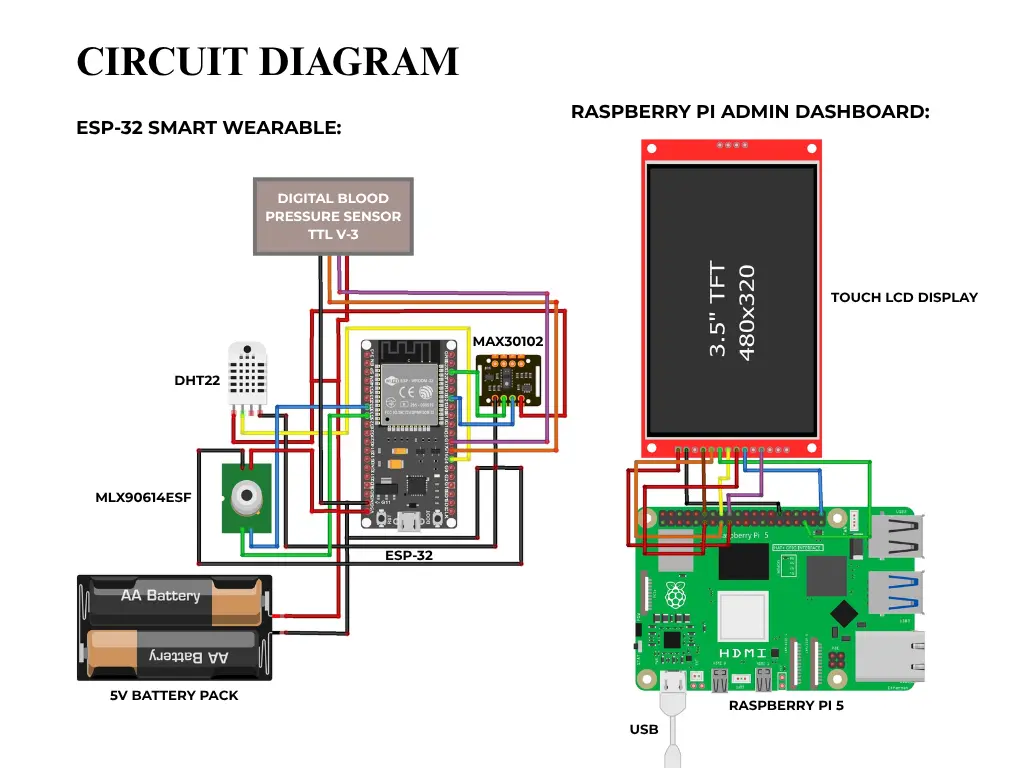
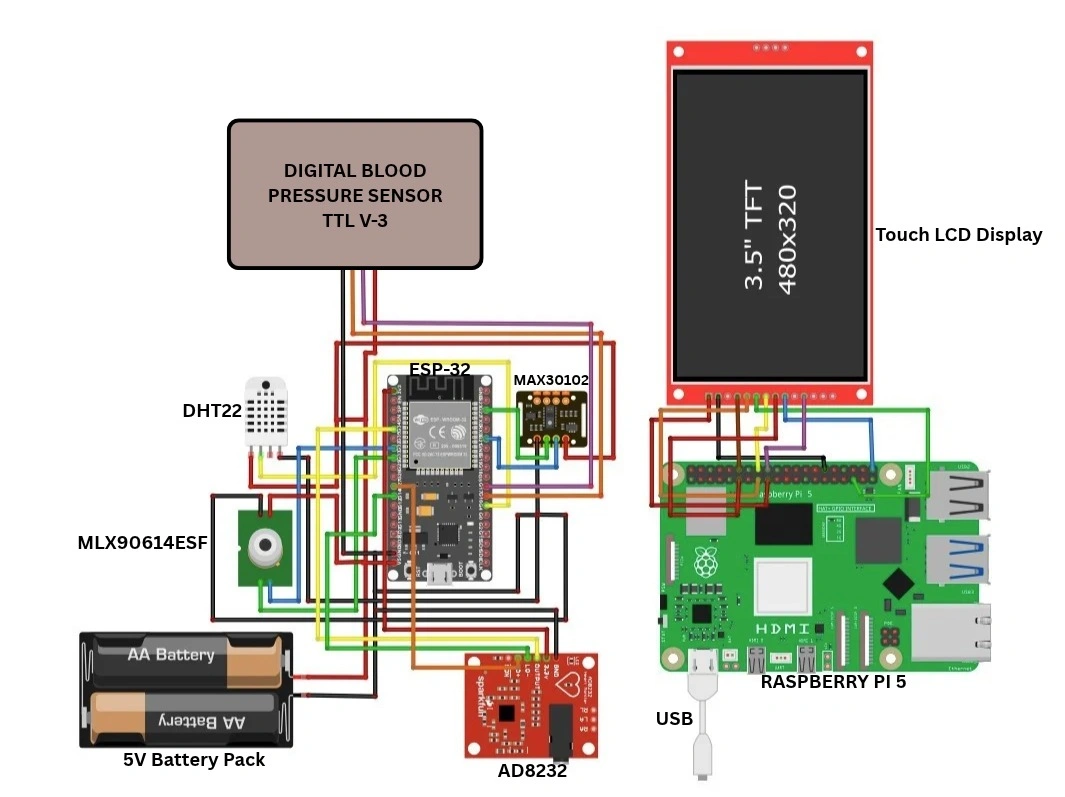
new 23

diff --git a/dashboard/static/sw.js b/dashboard/static/sw.js
@@ -6,13 +6,16 @@
  * and reliable edge node operation on mobile devices and desktop.
  */
 
-const CACHE_NAME = "jeevone-dashboard-v2.6.0";
+const CACHE_NAME = "jeevone-dashboard-v2.7.0";
 const PRECACHE_ASSETS = [
+  "/",
   "/dashboard",
   "/manifest.json",
   "/static/manifest.json",
-  "/static/css/dashboard.css?v=2.5",
-  "/static/js/dashboard.js?v=2.5",
+  "/static/css/dashboard.css?v=2.7",
+  "/static/js/dashboard.js?v=2.7",
+  "/static/css/landing.css",
+  "/static/js/landing.js",
   "/static/js/icons.js",
   "/static/images/jeev_one_logo.webp",
   "/static/images/favicon.png",
@@ -29,7 +32,7 @@ const PRECACHE_ASSETS = [
 self.addEventListener("install", (event) => {
   event.waitUntil(
     caches.open(CACHE_NAME).then((cache) => {
-      console.log("[PWA Service Worker] Pre-caching offline dashboard shell v2.5.0");
+      console.log("[PWA Service Worker] Pre-caching offline dashboard shell v2.7.0");
       return cache.addAll(PRECACHE_ASSETS).catch((err) => {
         console.warn("[PWA Service Worker] Some assets failed to precache:", err);
       });
@@ -82,28 +85,30 @@ self.addEventListener("fetch", (event) => {
     return;
   }
 
-  // 3. Navigation requests: Network-First strictly for /dashboard
+  // 3. Navigation requests: Network-First with cache fallback
   if (event.request.mode === "navigate") {
-    if (url.pathname.startsWith("/dashboard")) {
-      event.respondWith(
-        fetch(event.request)
-          .then((networkResponse) => {
-            if (networkResponse && networkResponse.status === 200) {
-              const clone = networkResponse.clone();
-              caches.open(CACHE_NAME).then((cache) => cache.put(event.request, clone));
-            }
-            return networkResponse;
-          })
-          .catch(async () => {
-            const cached = await caches.match(event.request);
-            if (cached) return cached;
+    event.respondWith(
+      fetch(event.request)
+        .then((networkResponse) => {
+          if (networkResponse && networkResponse.status === 200) {
+            const clone = networkResponse.clone();
+            caches.open(CACHE_NAME).then((cache) => cache.put(event.request, clone));
+          }
+          return networkResponse;
+        })
+        .catch(async () => {
+          const cached = await caches.match(event.request, { ignoreSearch: true });
+          if (cached) return cached;
+          if (url.pathname.startsWith("/dashboard")) {
             const dashboardFallback = await caches.match("/dashboard");
             if (dashboardFallback) return dashboardFallback;
-            return new Response("Offline - Please reconnect to Edge Node", { status: 503 });
-          })
-      );
-      return;
-    }
+          } else {
+            const rootFallback = await caches.match("/");
+            if (rootFallback) return rootFallback;
+          }
+          return new Response("Offline - Please reconnect to Edge Node", { status: 503 });
+        })
+    );
     return;
   }
 
@@ -120,7 +125,7 @@ self.addEventListener("fetch", (event) => {
             return networkResponse;
           })
           .catch(async () => {
-            const cached = await caches.match(event.request);
+            const cached = await caches.match(event.request, { ignoreSearch: true });
             if (cached) return cached;
             return new Response(JSON.stringify({ status: "offline", offline: true }), {
               headers: { "Content-Type": "application/json" }
@@ -144,7 +149,7 @@ self.addEventListener("fetch", (event) => {
           return networkResponse;
         })
         .catch(async () => {
-          const cached = await caches.match(event.request);
+          const cached = await caches.match(event.request, { ignoreSearch: true });
           if (cached) return cached;
           return new Response("", { status: 404 });
         })
@@ -154,7 +159,7 @@ self.addEventListener("fetch", (event) => {
 
   // 6. Other static assets (Images, Icons, Fonts): Cache-First
   event.respondWith(
-    caches.match(event.request).then((cachedResponse) => {
+    caches.match(event.request, { ignoreSearch: true }).then((cachedResponse) => {
       if (cachedResponse) return cachedResponse;
       return fetch(event.request).then((networkResponse) => {
         if (networkResponse && networkResponse.status === 200) {

diff --git a/dashboard/templates/landing.html b/dashboard/templates/landing.html
@@ -11,9 +11,16 @@
   <link rel="preconnect" href="https://fonts.gstatic.com" crossorigin />
   <link href="https://fonts.googleapis.com/css2?family=Inter:wght@300;400;500;600;700;800;900&family=JetBrains+Mono:wght@400;500;600;700&family=Plus+Jakarta+Sans:wght@400;500;600;700;800&display=swap" rel="stylesheet" />
   
-  <!-- Favicon -->
+  <!-- Favicon & PWA App Manifest -->
+  <link rel="manifest" href="/manifest.json" />
+  <meta name="theme-color" content="#050505" />
+  <meta name="mobile-web-app-capable" content="yes" />
+  <meta name="apple-mobile-web-app-capable" content="yes" />
+  <meta name="apple-mobile-web-app-status-bar-style" content="black-translucent" />
+  <meta name="apple-mobile-web-app-title" content="Jeev One" />
+  <link rel="apple-touch-icon" href="/static/icons/apple-touch-icon.png" />
+  <link rel="icon" type="image/png" sizes="192x192" href="/static/icons/icon-192x192.png" />
   <link rel="icon" type="image/png" href="/static/images/favicon.png" />
-  <link rel="apple-touch-icon" href="/static/images/favicon.png" />
 
   <link rel="stylesheet" href="/static/css/landing.css?v=2.7.2" />
 </head>
@@ -962,9 +969,9 @@
           </div>
 
           <!-- Gallery Item 3: Circuit Diagram -->
-          <div class="gallery-card" data-full="/static/images/circuit_diagram.webp" data-title="Jeev One Full Circuit & Schematic Diagram" data-desc="Complete electronic inter-component schematic depicting I2C, UART, 1-Wire, and GPIO signal routing to ESP-32 and Raspberry Pi 5 with 3.5-inch touch LCD." tabindex="0" role="button" aria-label="View System Circuit Wiring Diagram">
+          <div class="gallery-card" data-full="/static/images/circuit_diagram.webp?v=3" data-title="Jeev One Full Circuit & Schematic Diagram" data-desc="Complete electronic inter-component schematic depicting I2C, UART, 1-Wire, and GPIO signal routing to ESP-32, AD8232 ECG sensor, and Raspberry Pi 5 with 3.5-inch touch LCD." tabindex="0" role="button" aria-label="View System Circuit Wiring Diagram">
             <div class="gallery-img-wrap gallery-img-schematic">
-              <img src="/static/images/circuit_diagram.webp" alt="Jeev One Circuit Wiring Diagram" loading="lazy">
+              <img src="/static/images/circuit_diagram.webp?v=3" alt="Jeev One Circuit Wiring Diagram" loading="lazy">
               <div class="gallery-zoom-badge">
                 <svg width="14" height="14" viewBox="0 0 24 24" fill="none" stroke="currentColor" stroke-width="2.5" stroke-linecap="round" stroke-linejoin="round"><circle cx="11" cy="11" r="8"/><line x1="21" y1="21" x2="16.65" y2="16.65"/><line x1="11" y1="8" x2="11" y2="14"/><line x1="8" y1="11" x2="14" y2="11"/></svg>
                 <span>Expand</span>

diff --git a/dashboard/static/css/dashboard.css b/dashboard/static/css/dashboard.css
@@ -92,10 +92,8 @@ html {
   -webkit-font-smoothing: antialiased;
   -webkit-text-size-adjust: 100%;
   width: 100%;
-  height: 100%;
+  min-height: 100%;
   overflow-x: hidden;
-  overflow-y: auto;
-  -webkit-overflow-scrolling: touch;
 }
 
 body {
@@ -103,12 +101,18 @@ body {
   background: var(--bg);
   color: var(--text);
   width: 100%;
-  min-height: 100%;
+  min-height: 100vh;
+  min-height: 100dvh;
   overflow-x: hidden;
   overflow-y: visible;
-  touch-action: pan-y;
   -webkit-overflow-scrolling: touch;
-  padding-bottom: 3rem;
+  padding-bottom: 3.5rem;
+}
+
+/* Ensure buttons, inputs, links respond instantly to touch without gesture delay */
+button, input, select, textarea, a, [role="button"], [data-tab] {
+  touch-action: manipulation;
+  -webkit-tap-highlight-color: transparent;
 }
 
 /* ── SVG Icons ─────────────────────────────────────────────────────────────── */
@@ -2727,12 +2731,12 @@ body.pwa-standalone #btn-install-settings-pwa {
 }
 
 body.pwa-standalone {
-  /* Allow fluid scrolling while preventing page pull-refresh loops */
-  overscroll-behavior-y: contain;
+  /* Allow natural fluid scrolling while avoiding pull-refresh conflicts */
+  overscroll-behavior-y: auto;
   -webkit-overflow-scrolling: touch;
   /* Accommodate notch and home indicator on mobile phones */
-  padding-top: env(safe-area-inset-top);
-  padding-bottom: max(5rem, calc(76px + env(safe-area-inset-bottom)));
+  padding-top: env(safe-area-inset-top, 0px);
+  padding-bottom: max(5.5rem, calc(84px + env(safe-area-inset-bottom, 0px)));
 }
 
 /* iOS Safari PWA Install Modal */
@@ -2834,7 +2838,7 @@ body.pwa-standalone {
 /* Tablet & Smaller Desktops */
 @media (max-width: 1024px) {
   body {
-    padding-bottom: calc(76px + env(safe-area-inset-bottom, 0px)) !important;
+    padding-bottom: calc(84px + env(safe-area-inset-bottom, 0px)) !important;
   }
   .header-nav {
     display: none !important;
@@ -2859,7 +2863,7 @@ body.pwa-standalone {
 /* Mobile Devices & Phones (Standard Mobile Breakpoint) */
 @media (max-width: 768px) {
   body {
-    padding-bottom: calc(76px + env(safe-area-inset-bottom, 0px)) !important;
+    padding-bottom: calc(84px + env(safe-area-inset-bottom, 0px)) !important;
   }
 
   .mobile-bottom-nav {

diff --git a/dashboard/static/js/dashboard.js b/dashboard/static/js/dashboard.js
@@ -1539,8 +1539,23 @@ function initUserSwitcher() {
     .then(r => r.json())
     .then(res => {
       if (res.users && res.users.user_1 && res.users.user_2) {
-        PROFILES = res.users;
-        if (res.active_user_id) _activeUserId = res.active_user_id;
+        const localCached = localStorage.getItem("jeev_one_profiles");
+        if (!localCached) {
+          PROFILES = res.users;
+        } else {
+          try {
+            const parsed = JSON.parse(localCached);
+            PROFILES = {
+              user_1: { ...res.users.user_1, ...(parsed.user_1 || {}) },
+              user_2: { ...res.users.user_2, ...(parsed.user_2 || {}) }
+            };
+          } catch(e) {
+            PROFILES = res.users;
+          }
+        }
+        if (res.active_user_id && !localStorage.getItem("jeev_one_user_id")) {
+          _activeUserId = res.active_user_id;
+        }
       }
       updateUserUI(_activeUserId);
       updateDualTelemetry();
@@ -1712,6 +1727,8 @@ function initTabs() {
 
     // Immediately restore viewport scroll position to top
     window.scrollTo({ top: 0, behavior: "instant" });
+    if (document.documentElement) document.documentElement.scrollTop = 0;
+    if (document.body) document.body.scrollTop = 0;
 
     // Resize charts and canvases when entering tabs
     if (tabId === "live") {

diff --git a/dashboard/static/js/landing.js b/dashboard/static/js/landing.js
@@ -15,6 +15,7 @@ document.addEventListener("DOMContentLoaded", () => {
   initECGWaveform();
   fetchLivePreviewData();
   initEditorialAccordion();
+  initPWA();
 });
 
 // ── Mobile Navigation Drawer Toggle ──────────────────────────────────────────
@@ -383,6 +384,22 @@ function initEditorialAccordion() {
 
   handleHash();
   window.addEventListener("hashchange", handleHash);
+}
+
+// ── Progressive Web App (PWA) Registration ──────────────────────────────────
+function initPWA() {
+  if ("serviceWorker" in navigator) {
+    window.addEventListener("load", () => {
+      navigator.serviceWorker
+        .register("/sw.js", { scope: "/" })
+        .then((reg) => {
+          try { reg.update(); } catch(e) {}
+        })
+        .catch((err) => {
+          console.warn("[PWA] Service Worker registration failed:", err);
+        });
+    });
+  }
 }
 
 

diff --git a/dashboard/templates/index.html b/dashboard/templates/index.html
@@ -21,7 +21,7 @@
   <link rel="preconnect" href="https://fonts.googleapis.com" />
   <link rel="preconnect" href="https://fonts.gstatic.com" crossorigin />
   <link href="https://fonts.googleapis.com/css2?family=Inter:wght@300;400;500;600;700&family=JetBrains+Mono:wght@400;500&display=swap" rel="stylesheet" />
-  <link rel="stylesheet" href="/static/css/dashboard.css?v=2.5" />
+  <link rel="stylesheet" href="/static/css/dashboard.css?v=2.7" />
   <!-- We'll use Chart.js for the new charts -->
   <script src="https://cdn.jsdelivr.net/npm/chart.js"></script>
   <!-- Prevent theme flicker -->
@@ -1297,6 +1297,6 @@
   <script src="https://www.gstatic.com/firebasejs/10.12.0/firebase-app-compat.js"></script>
   <script src="https://www.gstatic.com/firebasejs/10.12.0/firebase-firestore-compat.js"></script>
   <script src="/static/js/icons.js"></script>
-  <script src="/static/js/dashboard.js?v=2.5"></script>
+  <script src="/static/js/dashboard.js?v=2.7"></script>
 </body>
 </html>

diff --git a/app/users.py b/app/users.py
@@ -15,8 +15,25 @@ from typing import Dict, Any, Optional
 
 _log = logging.getLogger(__name__)
 
-USERS_FILE = Path(__file__).resolve().parent.parent / "data" / "users.json"
 _lock = threading.RLock()
+_in_memory_store: Optional[Dict[str, Any]] = None
+
+def _get_users_file() -> Path:
+    primary = Path(__file__).resolve().parent.parent / "data" / "users.json"
+    try:
+        primary.parent.mkdir(parents=True, exist_ok=True)
+        # Test write permission
+        test_file = primary.parent / ".perm_check"
+        test_file.touch()
+        test_file.unlink(missing_ok=True)
+        return primary
+    except (OSError, PermissionError):
+        import tempfile
+        fallback_dir = Path(tempfile.gettempdir()) / "jeev_one_data"
+        fallback_dir.mkdir(parents=True, exist_ok=True)
+        return fallback_dir / "users.json"
+
+USERS_FILE = _get_users_file()
 
 DEFAULT_PROFILES: Dict[str, Dict[str, Any]] = {
     "user_1": {
@@ -70,17 +87,23 @@ def _derive_initials(name: str) -> str:
 
 def load_user_store() -> Dict[str, Any]:
     """Load user store from disk or initialize with default Aryyaman & Hirok profiles."""
+    global _in_memory_store
     with _lock:
-        if not USERS_FILE.exists():
+        target = _get_users_file()
+        if _in_memory_store is not None:
+            return _in_memory_store
+
+        if not target.exists():
             data = {
                 "active_user_id": "user_1",
                 "users": DEFAULT_PROFILES
             }
             save_user_store(data)
+            _in_memory_store = data
             return data
 
         try:
-            with open(USERS_FILE, "r", encoding="utf-8") as f:
+            with open(target, "r", encoding="utf-8") as f:
                 content = json.load(f)
                 # Ensure user_1 and user_2 exist
                 users = content.get("users", {})
@@ -90,23 +113,29 @@ def load_user_store() -> Dict[str, Any]:
                 content["users"] = users
                 if "active_user_id" not in content or content["active_user_id"] not in users:
                     content["active_user_id"] = "user_1"
+                _in_memory_store = content
                 return content
         except Exception as e:
-            _log.warning("Failed to parse %s (%s). Reverting to defaults.", USERS_FILE, e)
-            return {"active_user_id": "user_1", "users": DEFAULT_PROFILES}
+            _log.warning("Failed to parse %s (%s). Reverting to defaults.", target, e)
+            fallback = {"active_user_id": "user_1", "users": DEFAULT_PROFILES}
+            _in_memory_store = fallback
+            return fallback
 
 
 def save_user_store(data: Dict[str, Any]) -> None:
-    """Save user store to data/users.json atomically."""
+    """Save user store to disk atomically and keep memory store synced."""
+    global _in_memory_store
     with _lock:
-        USERS_FILE.parent.mkdir(parents=True, exist_ok=True)
+        _in_memory_store = data
+        target = _get_users_file()
         try:
-            tmp_file = USERS_FILE.with_suffix(".tmp")
+            target.parent.mkdir(parents=True, exist_ok=True)
+            tmp_file = target.with_suffix(".tmp")
             with open(tmp_file, "w", encoding="utf-8") as f:
                 json.dump(data, f, indent=2, ensure_ascii=False)
-            tmp_file.replace(USERS_FILE)
+            tmp_file.replace(target)
         except Exception as e:
-            _log.error("Failed to save user store to %s: %s", USERS_FILE, e)
+            _log.error("Failed to save user store to %s: %s", target, e)
 
 
 def update_user_profile(user_id: str, updates: Dict[str, Any]) -> Optional[Dict[str, Any]]:
